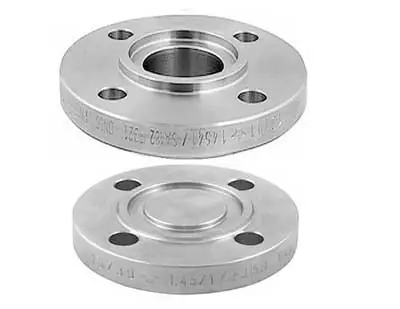
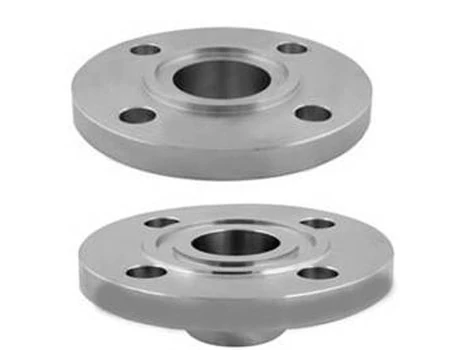
feat: implement site navigation, home page structure, and product data modules with associated imagery

diff --git a/src/data/products/flanges.ts b/src/data/products/flanges.ts
@@ -349,31 +349,59 @@ export const flanges: Product[] = [
     metaDescription:
       "Forged RTJ Flanges in SS, Duplex, Inconel, Hastelloy, Titanium. 1/2\"–60\", Class 150#–2500#. Metal-to-metal seal for extreme pressure & temperature. Prayag Steel India.",
   },
-  // ── 11. Male-Female Tongue & Groove Flange ─────────────────────────────────
+  // ── 11. Male-Female Flange ───────────────────────────────────────────────────
   {
     id: "flg-011",
-    slug: "male-female-tongue-and-groove-flange",
+    slug: "male-female-flange",
     division: "flanges",
-    subcategory: "Male-Female Tongue & Groove Flange",
+    subcategory: "Male-Female Flange",
     type: "Forged",
-    name: "Male-Female Tongue & Groove Flange",
+    name: "Male-Female Flange",
     shortDescription:
-      "Specialised matched pair flanges providing a highly reliable, blowout-proof seal for volatile, hazardous, or high-pressure fluids.",
+      "Matched-pair flanges where one face is raised (male) and the other is recessed (female), fully confining the gasket for leak-proof, blowout-resistant sealing.",
     description:
-      "Male-Female Tongue & Groove Flanges are highly specialised facings supplied as matched pairs. One flange is machined with a raised concentric ring (the tongue), and the mating flange is machined with a matching depression (the groove). The gasket is completely confined within the groove, preventing blowout under extreme pressures and shielding the gasket from chemical attack or erosion by the process fluid. They are essential in refineries, petrochemical plants, and high-pressure steam applications where leak prevention is critical.",
+      "Male-Female Flanges are specialised facing flanges supplied as matched pairs: one flange is machined with a raised central face (male) and the mating flange carries a matching recessed depression (female). The gasket seats entirely within the female recess and is held under uniform compression across its full width, preventing blowout even under extreme internal pressures. This facing style is widely used in high-pressure steam lines, refineries, petrochemical plants, and cryogenic services where gasket containment and leak prevention are paramount.",
     materials: [],
     standards: [...FLANGES_STANDARDS, "ASME B16.47"],
     specs: [
       ...FLANGES_SPECS,
-      { label: "Facing Type", value: "Male-Female Tongue & Groove" },
+      { label: "Facing Type", value: "Male-Female (Raised Male / Recessed Female)" },
       { label: "Supply", value: "Matched Pairs (Male + Female)" },
-      { label: "Gasket Confinement", value: "Groove-confined — prevents blowout" },
-      { label: "Size Range", value: "1/2\" to 24\" NPS (Larger sizes per ASME B16.47)" }
+      { label: "Gasket Confinement", value: "Fully confined within female recess — prevents blowout" },
+      { label: "Size Range", value: "1/2\" to 24\" NPS (Larger sizes per ASME B16.47)" },
+    ],
+    materialsTable: FLANGES_MATERIALS,
+    image: "products/flanges/male-female-flange.webp",
+    metaTitle: "Male-Female Flange | Forged Flanges | Prayag Steel & Engineering",
+    metaDescription:
+      "Forged Male-Female Flanges in SS, Duplex, Inconel, Hastelloy, Titanium. 1/2\"–24\"+, Class 150#–2500#. Matched pairs, blowout-proof gasket confinement. Prayag Steel India.",
+  },
+
+  // ── 12. Tongue and Groove Flange ─────────────────────────────────────────────
+  {
+    id: "flg-012",
+    slug: "tongue-and-groove-flange",
+    division: "flanges",
+    subcategory: "Tongue and Groove Flange",
+    type: "Forged",
+    name: "Tongue and Groove Flange",
+    shortDescription:
+      "Matched-pair flanges with a concentric tongue and groove that fully enclose the gasket, ideal for volatile, hazardous, or high-pressure process fluids.",
+    description:
+      "Tongue and Groove Flanges are precision-machined matched pairs: one flange carries a concentric raised ring (the tongue) and its partner carries a matching annular depression (the groove). The gasket is completely enclosed within the groove on both its inner and outer diameters, preventing lateral movement, gasket blow-out, and direct contact with the process fluid. This makes Tongue and Groove flanges the preferred choice for volatile hydrocarbons, toxic process streams, high-pressure steam, and other applications where any gasket exposure or leakage is unacceptable.",
+    materials: [],
+    standards: [...FLANGES_STANDARDS, "ASME B16.47"],
+    specs: [
+      ...FLANGES_SPECS,
+      { label: "Facing Type", value: "Tongue and Groove (Concentric Ring / Annular Groove)" },
+      { label: "Supply", value: "Matched Pairs (Tongue + Groove)" },
+      { label: "Gasket Confinement", value: "Fully enclosed — ID and OD contained within groove" },
+      { label: "Size Range", value: "1/2\" to 24\" NPS (Larger sizes per ASME B16.47)" },
     ],
     materialsTable: FLANGES_MATERIALS,
     image: "products/flanges/tongue-groove-flange.webp",
-    metaTitle: "Male-Female Tongue & Groove Flange | Forged Flanges | Prayag Steel",
+    metaTitle: "Tongue and Groove Flange | Forged Flanges | Prayag Steel & Engineering",
     metaDescription:
-      "Forged Male-Female Tongue & Groove Flanges in SS, Duplex, Inconel, Hastelloy, Titanium. 1/2\"–24\"+, Class 150#–2500#. Blowout-proof seal. Prayag Steel India.",
+      "Forged Tongue and Groove Flanges in SS, Duplex, Inconel, Hastelloy, Titanium. 1/2\"–24\"+, Class 150#–2500#. Full gasket confinement for volatile & hazardous fluids. Prayag Steel India.",
   },
 ];

diff --git a/src/components/layout/Navbar.tsx b/src/components/layout/Navbar.tsx
@@ -105,11 +105,11 @@ export const Navbar: React.FC = () => {
         role="banner"
       >
         <nav
-          className="max-w-[90rem] mx-auto px-4 sm:px-6 lg:px-8 flex items-center justify-between h-16 lg:h-20"
+          className="w-full px-4 sm:px-6 lg:px-10 xl:px-16 2xl:px-24 flex items-center justify-between h-16 lg:h-20"
           aria-label="Main navigation"
         >
           {/* Logo */}
-          <div className="flex-shrink-0 mr-4 lg:mr-6 xl:mr-8">
+          <div className="flex-shrink-0 flex items-center">
             <Link
               to="/"
               onClick={() => handleNavClick("/")}
@@ -274,7 +274,7 @@ export const Navbar: React.FC = () => {
           </div>
 
           {/* Right side: Catalogue button + mobile hamburger */}
-          <div className="flex-shrink-0 flex justify-end items-center gap-3 ml-8 xl:ml-4">
+          <div className="flex-shrink-0 flex justify-end items-center gap-3">
             {/* Catalogue button — desktop only in navbar */}
             <div className="hidden lg:block">
               <CatalogueDownloadButton id="navbar-catalogue-btn" />

diff --git a/src/components/sections/DivisionsSection.tsx b/src/components/sections/DivisionsSection.tsx
@@ -94,7 +94,7 @@ export const DivisionsSection: React.FC = () => {
       {/* Bottom Red Arc Divider */}
       <div className="absolute bottom-0 left-0 right-0 z-0 overflow-hidden leading-none" aria-hidden="true">
         <svg viewBox="0 0 1440 72" preserveAspectRatio="none" className="w-full block" style={{ height: "72px" }}>
-          <path d="M0,72 C480,4 960,4 1440,72 L1440,72 L0,72 Z" fill="#ffffff" />
+          <path d="M0,72 C480,4 960,4 1440,72 L1440,72 L0,72 Z" fill="#2B2B2B" />
         </svg>
       </div>
     </section>

diff --git a/src/pages/Home.tsx b/src/pages/Home.tsx
@@ -5,6 +5,7 @@ import { SnapshotSection } from "../components/sections/SnapshotSection";
 import { StandardsBadgeRow } from "../components/sections/StandardsBadgeRow";
 import { DivisionsSection } from "../components/sections/DivisionsSection";
 import { IndustriesSection } from "../components/sections/IndustriesSection";
+import { MaterialsMarqueeSection } from "../components/sections/products/MaterialsMarqueeSection";
 import { GlobalReachSection } from "../components/sections/GlobalReachSection";
 import { FooterCTA } from "../components/sections/FooterCTA";
 
@@ -22,6 +23,7 @@ export const Home: React.FC = () => {
         <SnapshotSection />
         <StandardsBadgeRow />
         <DivisionsSection />
+        <MaterialsMarqueeSection />
         <IndustriesSection />
         <GlobalReachSection />
         <FooterCTA />